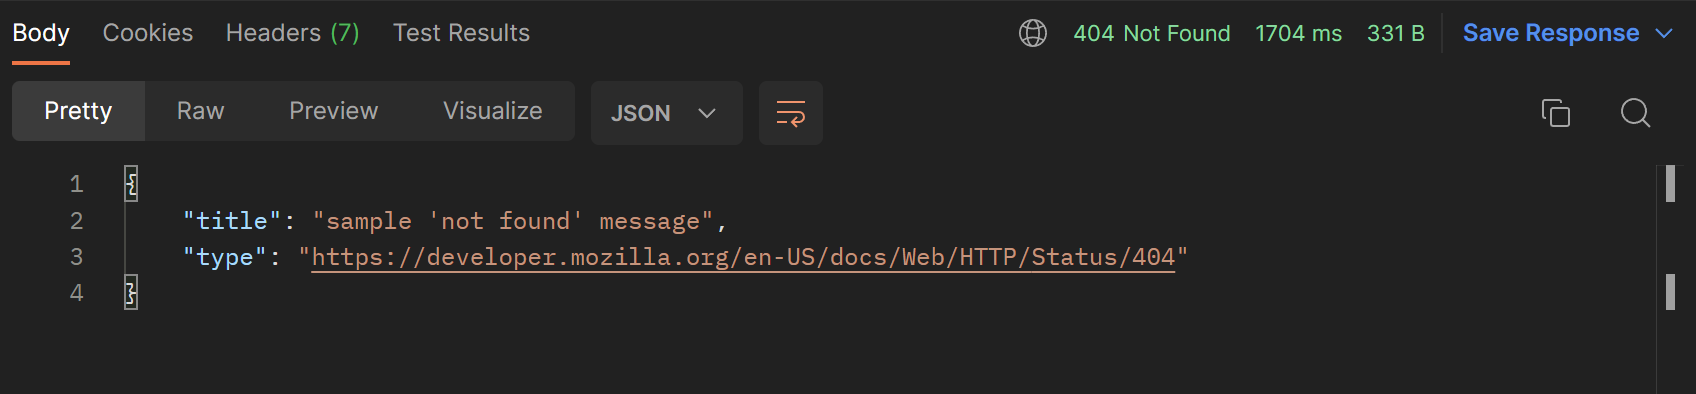
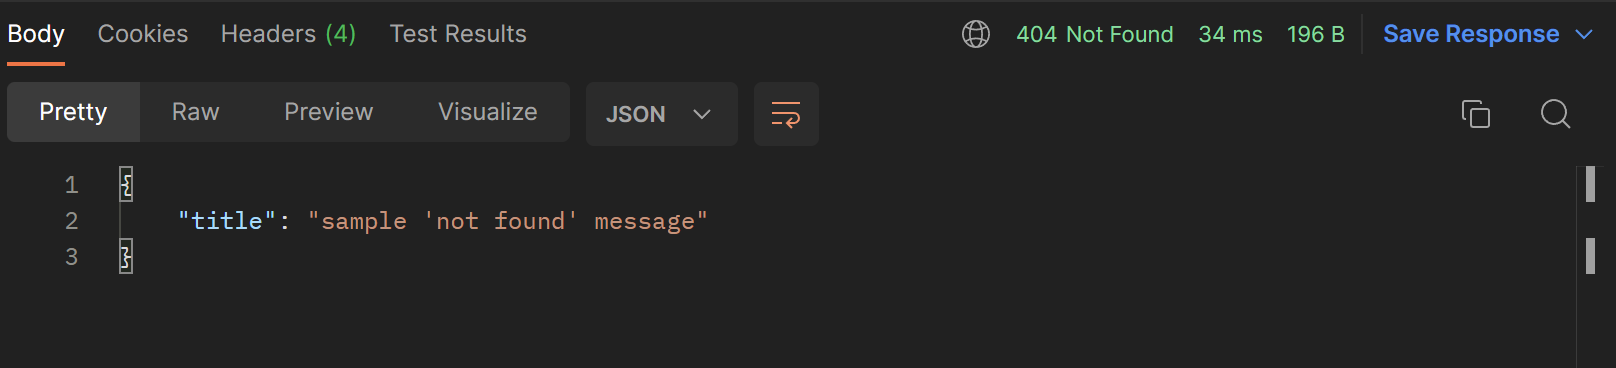
11 add ability to disable default type values in aspnet core handler (#12)
* Implement configuring handler behavior

* Update Readme according to changes

diff --git a/src/Implementations/BitzArt.ApiExceptions.AspNetCore/Handlers/ApiExceptionHandler.cs b/src/Implementations/BitzArt.ApiExceptions.AspNetCore/Handlers/ApiExceptionHandler.cs
@@ -1,0 +1,65 @@
+using Microsoft.AspNetCore.Http;
+using System.Text.Json;
+
+namespace BitzArt.ApiExceptions.AspNetCore;
+
+public class ApiExceptionHandler : IApiExceptionHandler
+{
+    private readonly ApiExceptionHandlerOptions _options;
+    private readonly HttpContext _httpContext;
+
+    public ApiExceptionHandler(ApiExceptionHandlerOptions options, IHttpContextAccessor contextAccessor)
+    {
+        _options = options;
+        _httpContext = contextAccessor.HttpContext!;
+    }
+
+    public virtual async Task HandleAsync(Exception exception)
+    {
+        _httpContext.Response.ContentType = "application/problem+json";
+
+        var problem = GetProblemDetails(exception);
+        await _httpContext.Response.WriteAsync(JsonSerializer.Serialize(problem));
+    }
+
+    private ProblemDetails GetProblemDetails(Exception exception)
+    {
+        if (exception is ApiExceptionBase apiException) return GetProblemDetails(apiException);
+
+        _httpContext.Response.StatusCode = 500;
+        return new ProblemDetails(exception);
+    }
+
+    private ProblemDetails GetProblemDetails(ApiExceptionBase apiException)
+    {
+        _httpContext.Response.StatusCode = apiException.StatusCode;
+
+        var defaultErrorType = GetDefaultErrorType(apiException);
+        if (defaultErrorType is not null) apiException.Payload.SetErrorType(defaultErrorType);
+
+        return new ProblemDetails(apiException);
+    }
+
+    private string? GetDefaultErrorType(ApiExceptionBase apiException)
+    {
+        if (apiException.Payload.GetErrorType() is not null) return null;
+
+        var useDefaultTypeValue = GetUseDefaultTypeValue(apiException);
+        if (!useDefaultTypeValue) return null;
+
+        var link = $"{Config.DocumentationLink}/{apiException.StatusCode}";
+        return link;
+    }
+
+    private bool GetUseDefaultTypeValue(ApiExceptionBase apiException)
+    {
+        if (_options.DisableDefaultTypeValues) return false;
+
+        var value = apiException.Payload
+            .GetConfigurationEntry<bool?>(Config.UseDefaultErrorTypeKey);
+
+        if (value is null) return true;
+
+        return value.Value;
+    }
+}

diff --git a/src/Implementations/BitzArt.ApiExceptions.AspNetCore/Extensions/UseApiExceptionHandlerExtension.cs b/src/Implementations/BitzArt.ApiExceptions.AspNetCore/Extensions/UseApiExceptionHandlerExtension.cs
@@ -1,17 +1,15 @@
 using Microsoft.AspNetCore.Builder;
 
-namespace BitzArt.ApiExceptions;
+namespace BitzArt.ApiExceptions.AspNetCore;
 
 public static class UseApiExceptionHandlerExtension
 {
     public static void UseApiExceptionHandler(this IApplicationBuilder app)
+        => app.UseApiExceptionHandler<ApiExceptionHandler>();
+
+    public static void UseApiExceptionHandler<THandler>(this IApplicationBuilder app)
+        where THandler : IApiExceptionHandler
     {
-        app.UseExceptionHandler(appError =>
-        {
-            appError.Run(async context =>
-            {
-                await context.WriteProblemDetailsAsync();
-            });
-        });
+        app.UseMiddleware<ApiExceptionHandlingMiddleware<THandler>>();
     }
 }

diff --git a/src/Implementations/BitzArt.ApiExceptions.AspNetCore/Middleware/ApiExceptionHandlingMiddleware.cs b/src/Implementations/BitzArt.ApiExceptions.AspNetCore/Middleware/ApiExceptionHandlingMiddleware.cs
@@ -1,0 +1,26 @@
+using Microsoft.AspNetCore.Http;
+
+namespace BitzArt.ApiExceptions.AspNetCore;
+
+public class ApiExceptionHandlingMiddleware<THandler>
+    where THandler : IApiExceptionHandler
+{
+    private readonly RequestDelegate _next;
+
+    public ApiExceptionHandlingMiddleware(RequestDelegate next)
+    {
+        _next = next;
+    }
+
+    public virtual async Task InvokeAsync(HttpContext context, THandler handler)
+    {
+        try
+        {
+            await _next(context);
+        }
+        catch (Exception exception)
+        {
+            await handler.HandleAsync(exception);
+        }
+    }
+}

diff --git a/src/Implementations/BitzArt.ApiExceptions.AspNetCore/Extensions/AddApiExceptionHandlerExtension.cs b/src/Implementations/BitzArt.ApiExceptions.AspNetCore/Extensions/AddApiExceptionHandlerExtension.cs
@@ -1,0 +1,20 @@
+using Microsoft.Extensions.DependencyInjection;
+
+namespace BitzArt.ApiExceptions.AspNetCore;
+
+public static class AddApiExceptionHandlerExtension
+{
+    public static IServiceCollection AddApiExceptionHandler
+        (this IServiceCollection services, Action<ApiExceptionHandlerOptions>? options = null)
+    {
+        services.AddHttpContextAccessor();
+
+        ApiExceptionHandlerOptions option = new();
+        options?.Invoke(option);
+        services.AddSingleton(option);
+
+        services.AddScoped<ApiExceptionHandler>();
+
+        return services;
+    }
+}

diff --git a/sample/BitzArt.ApiExceptions.AspNetCore.Sample/Program.cs b/sample/BitzArt.ApiExceptions.AspNetCore.Sample/Program.cs
@@ -1,7 +1,13 @@
-using BitzArt.ApiExceptions;
+using BitzArt.ApiExceptions.AspNetCore;
 
 var builder = WebApplication.CreateBuilder(args);
+
 builder.Services.AddControllers();
+builder.Services.AddApiExceptionHandler(options =>
+{
+    // Disables using default values for 'type' field
+    options.DisableDefaultTypeValues = true; 
+});
 
 var app = builder.Build();
 

diff --git a/src/Implementations/BitzArt.ApiExceptions.AspNetCore/Config.cs b/src/Implementations/BitzArt.ApiExceptions.AspNetCore/Config.cs
@@ -1,6 +1,6 @@
-namespace BitzArt.ApiExceptions
+namespace BitzArt.ApiExceptions.AspNetCore
 {
-    public static partial class Config
+    internal static partial class Config
     {
         public const string UseDefaultErrorTypeKey = "useDefaultType";
 

diff --git a/src/Implementations/BitzArt.ApiExceptions.AspNetCore/Extensions/ApiExceptionPayloadExtensions.cs b/src/Implementations/BitzArt.ApiExceptions.AspNetCore/Extensions/ApiExceptionPayloadExtensions.cs
@@ -1,4 +1,6 @@
-namespace BitzArt.ApiExceptions;
+using BitzArt.ApiExceptions.AspNetCore;
+
+namespace BitzArt.ApiExceptions;
 
 public static class ApiExceptionPayloadExtensions
 {

diff --git a/src/Implementations/BitzArt.ApiExceptions.AspNetCore/Models/ApiExceptionHandlerOptions.cs b/src/Implementations/BitzArt.ApiExceptions.AspNetCore/Models/ApiExceptionHandlerOptions.cs
@@ -1,0 +1,6 @@
+namespace BitzArt.ApiExceptions.AspNetCore;
+
+public class ApiExceptionHandlerOptions
+{
+    public bool DisableDefaultTypeValues { get; set; } = false;
+}

diff --git a/src/BitzArt.ApiExceptions/Interface/IApiExceptionHandler.cs b/src/BitzArt.ApiExceptions/Interface/IApiExceptionHandler.cs
@@ -1,0 +1,6 @@
+namespace BitzArt.ApiExceptions;
+
+public interface IApiExceptionHandler
+{
+    Task HandleAsync(Exception exception);
+}

diff --git a/README.md b/README.md
@@ -15,15 +15,22 @@ To use with Asp.Net Core, add nuget package to your project:
 
 https://www.nuget.org/packages/BitzArt.ApiExceptions.AspNetCore/
 
-Add this code to your Startup.Configure method before controllers:
-
-````csharp
+Add this line of code to your `program.cs` when configuring services:
+```csharp
+builder.Services.AddApiExceptionHandler();
+```
+And then call this method (before controllers):
+```csharp
 app.UseApiExceptionHandler();
-````
+```
+Your `program.cs` should look something like this:
+
+![program-cs-sample-screenshot](/docs/program-cs-sample-screenshot.png)
+
 Then, anywhere in your code, you can throw exceptions like:
-````csharp
+```csharp
 throw ApiException.NotFound("sample 'not found' message");
-````
+```
 This will generate an http response with appropriate status code:
 
 ![404-screenshot](/docs/404-screenshot.png)
